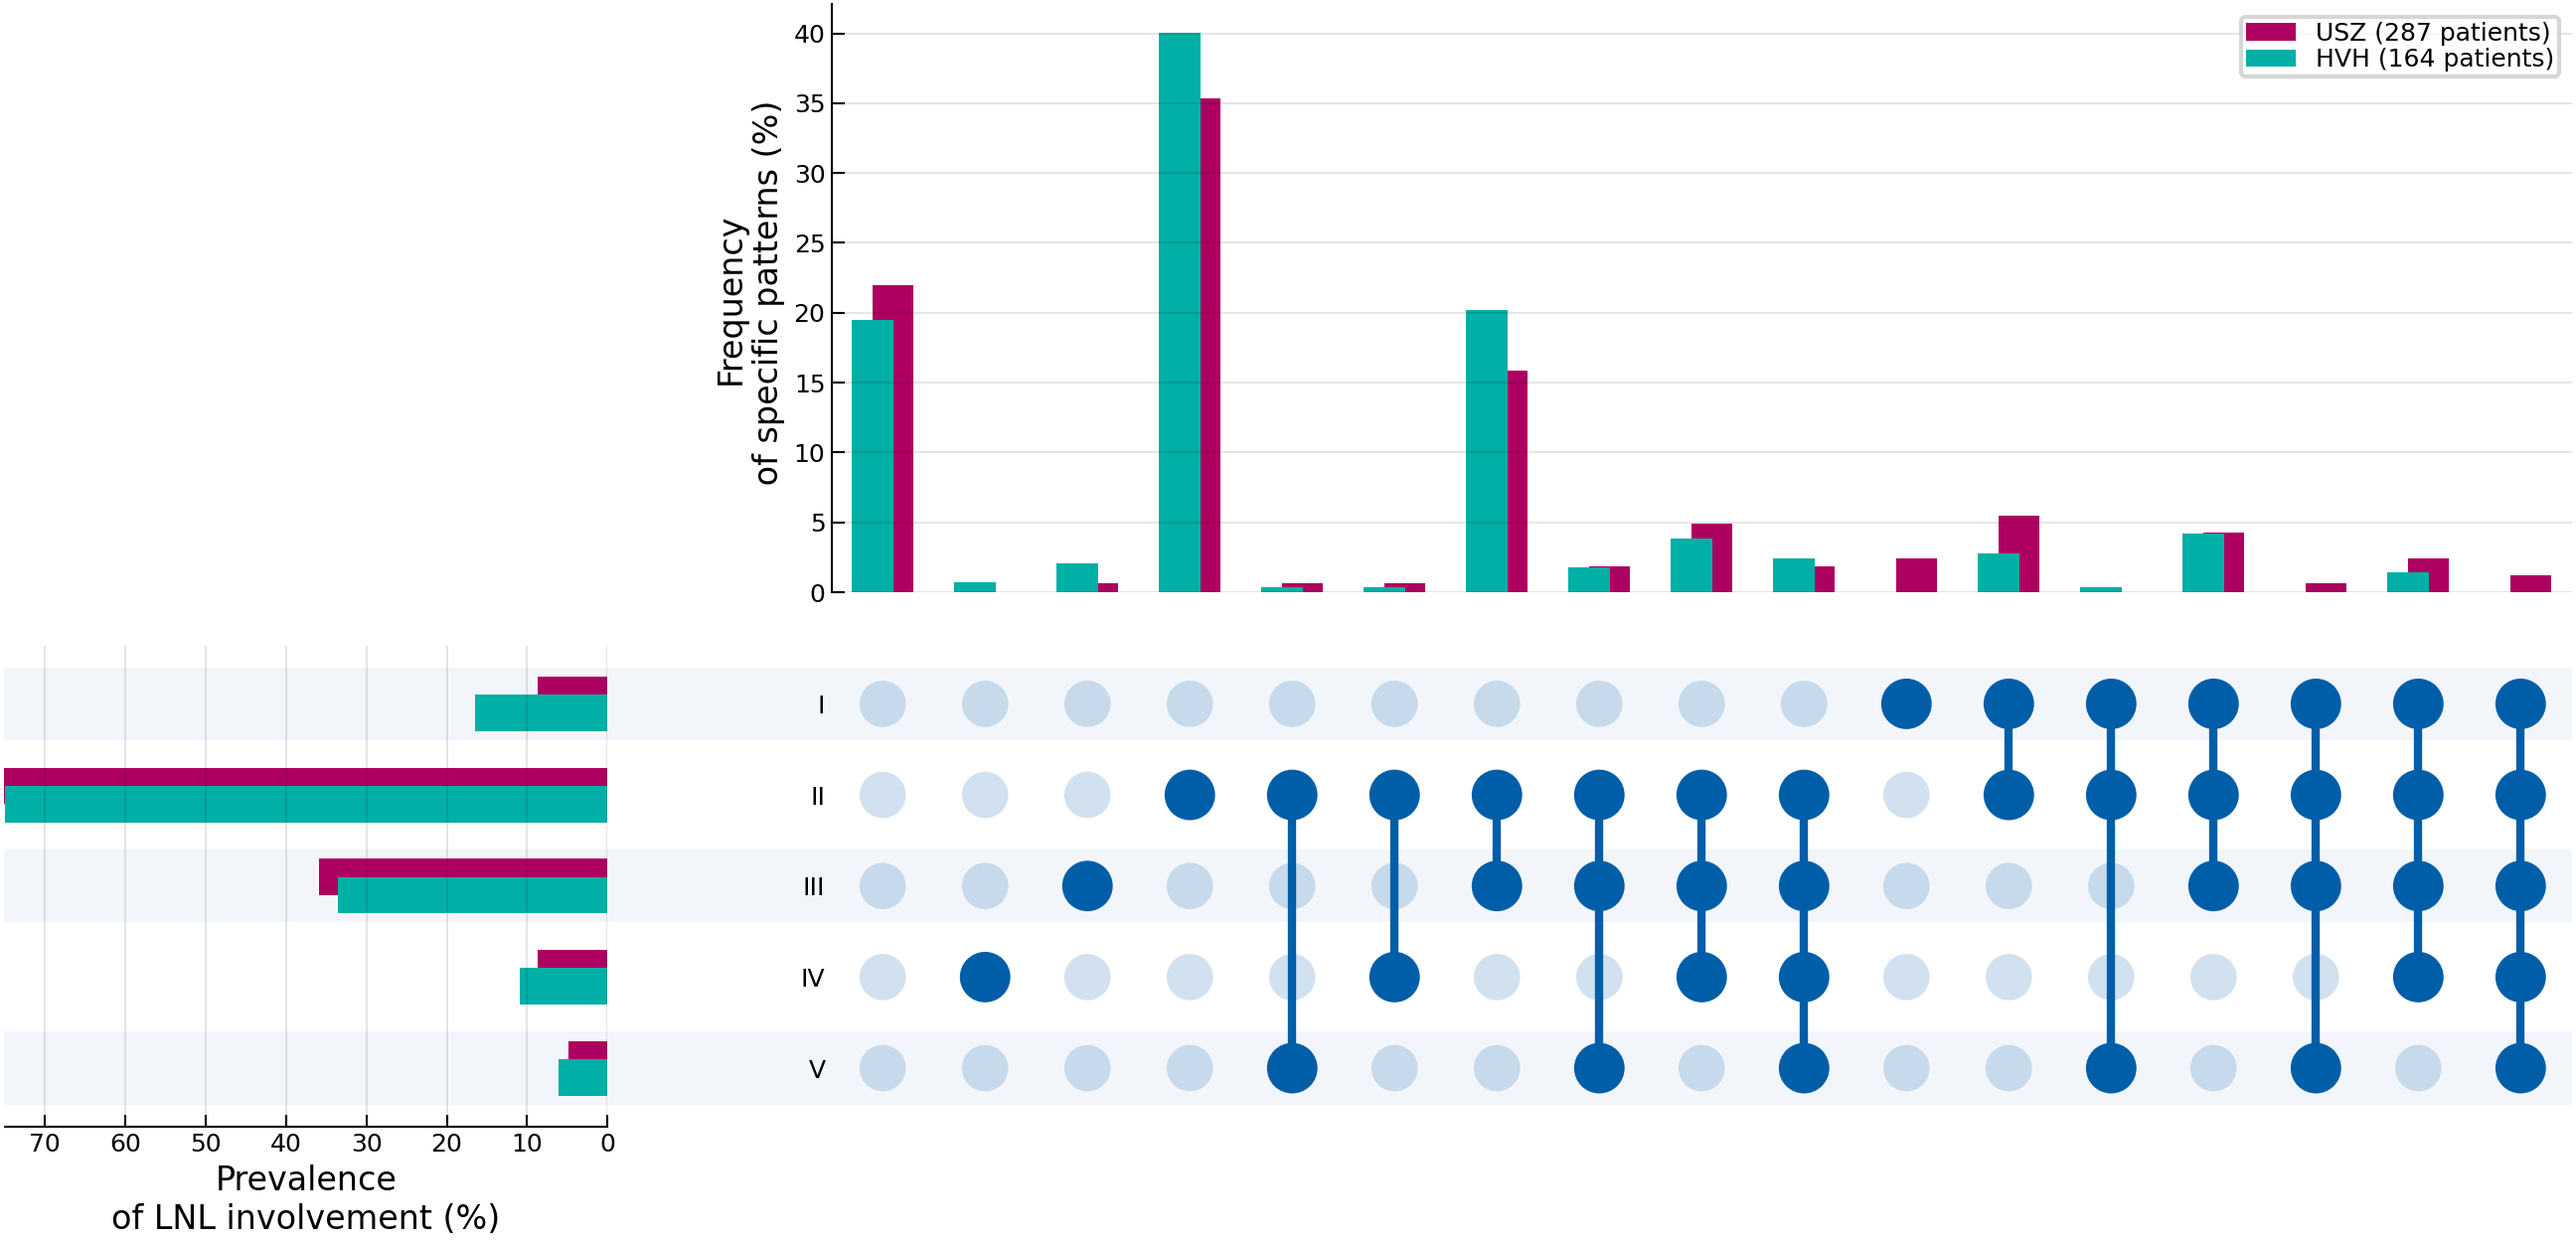
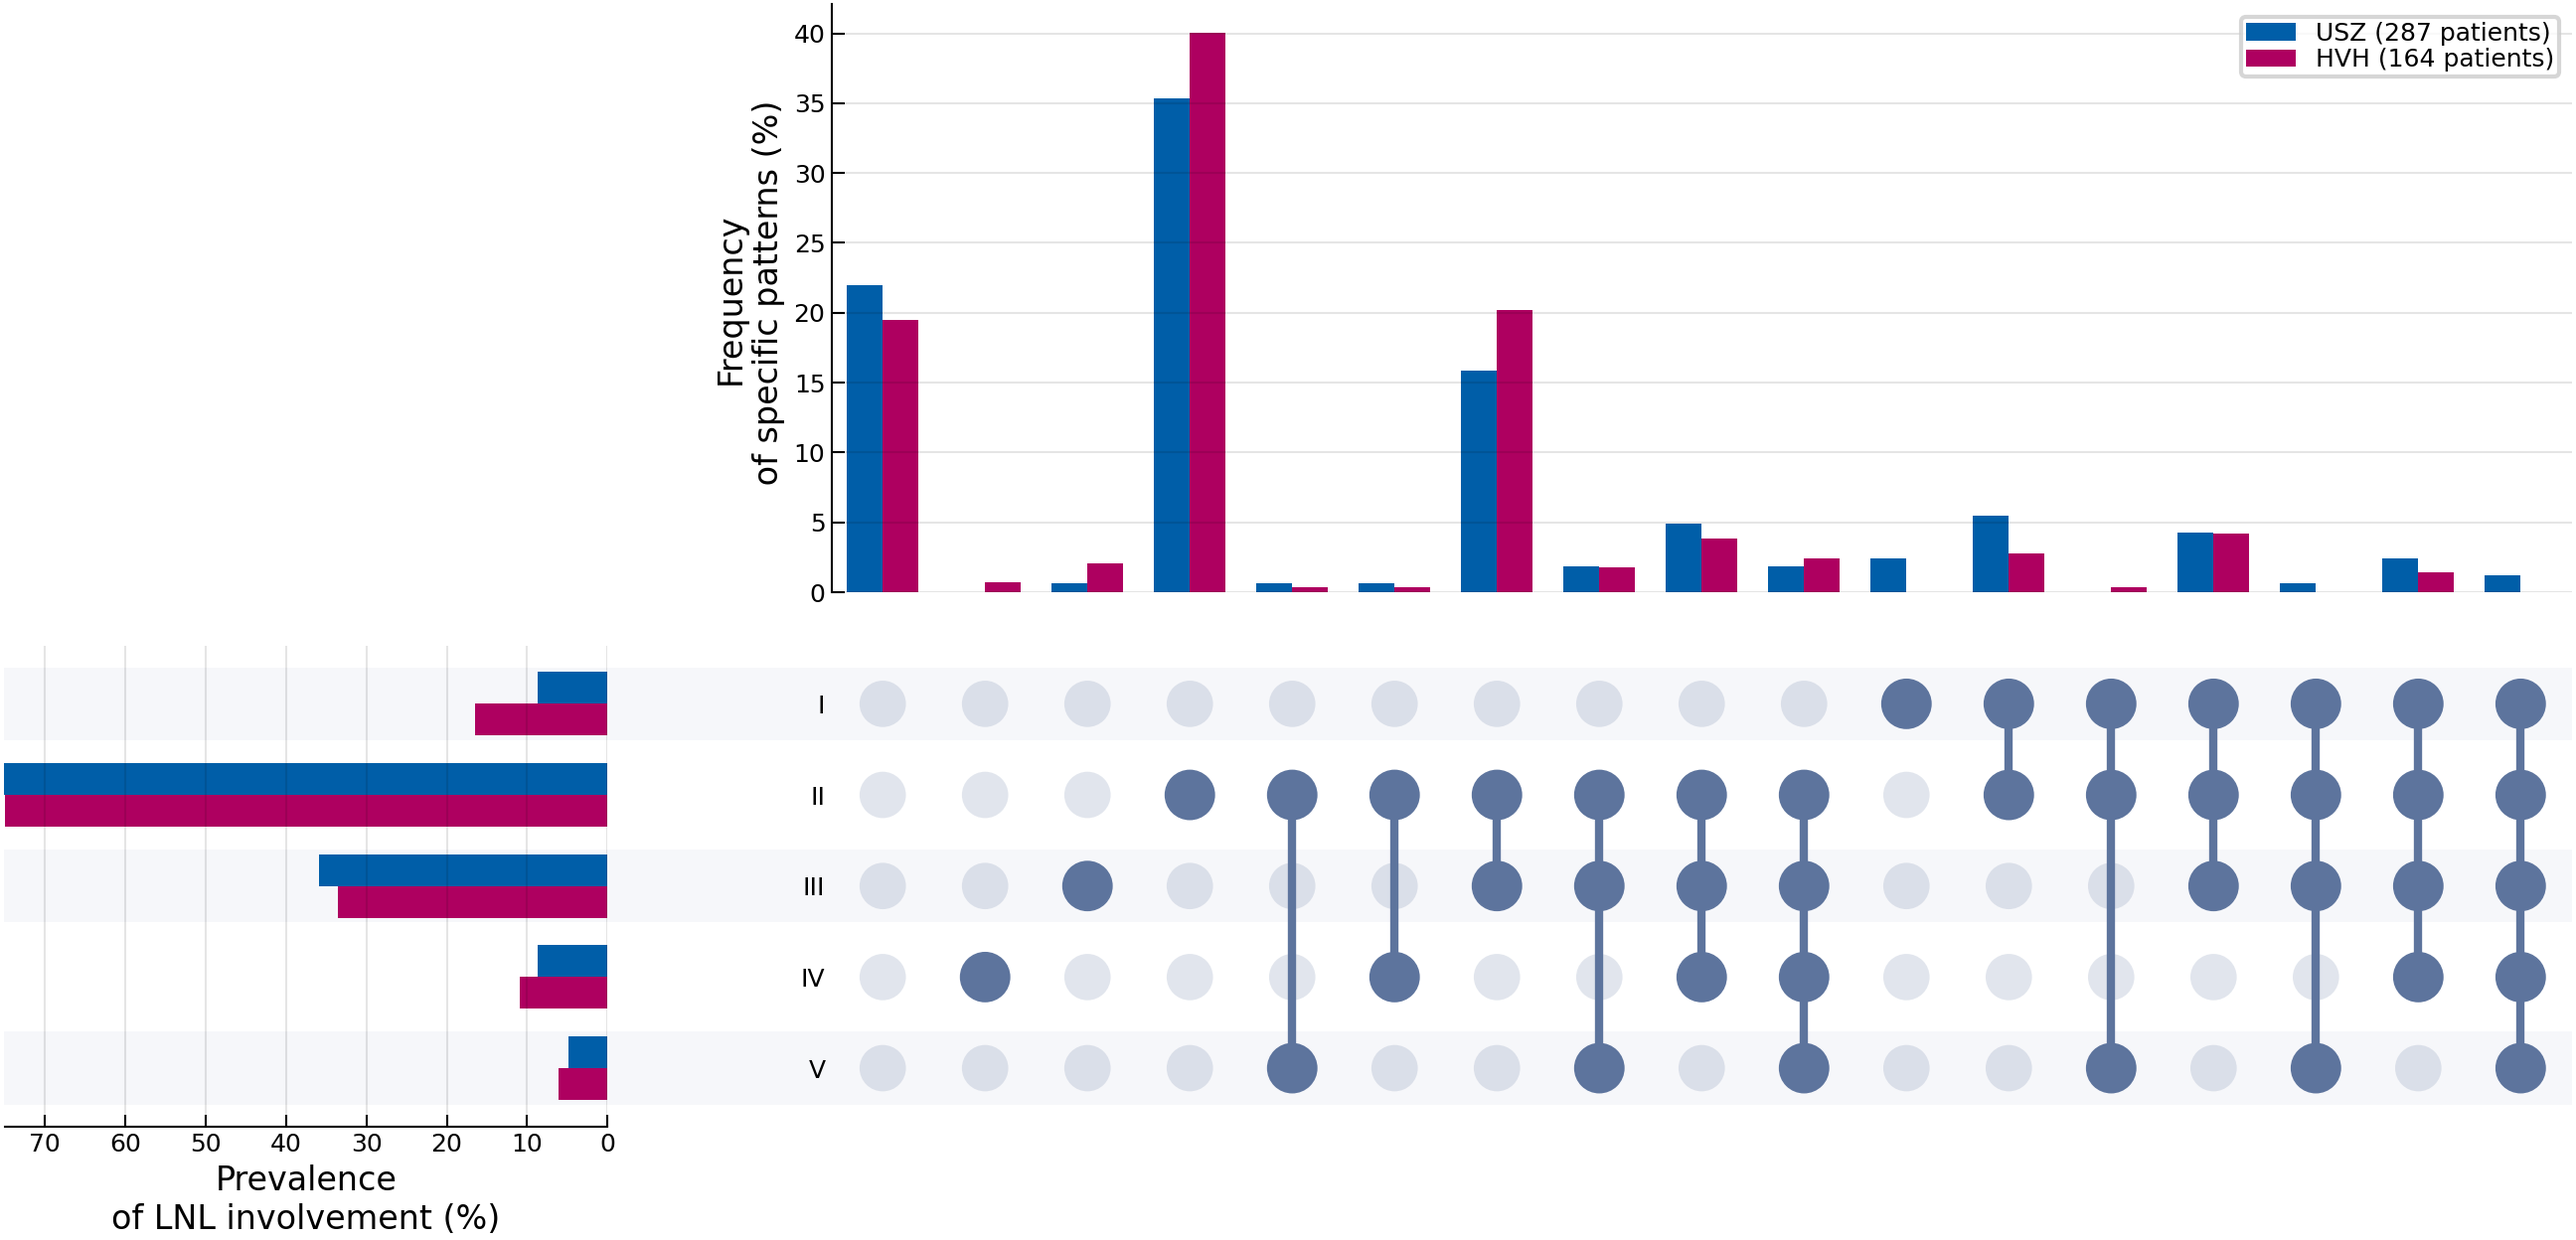
change colors & add factors diff

diff --git a/scripts/factors_diff.py b/scripts/factors_diff.py
@@ -1,0 +1,95 @@
+"""Plot the difference of clinicopathological factors in two datasets as a bar plot."""
+
+import argparse
+from pathlib import Path
+
+import lydata
+import matplotlib.pyplot as plt
+from lydata import C
+from lyscripts.plot.utils import COLORS
+from shared import MPLSTYLE
+from tueplots import figsizes, fontsizes
+from upset_diff import get_parser, kwargs_from_option
+
+OUTPUT_NAME = Path(__file__).with_suffix(".png").name
+
+
+def create_ax() -> plt.Axes:
+    """Create the axis for the plot."""
+    plt.style.use(MPLSTYLE)
+    plt.rcParams.update(figsizes.icml2022_half())
+    plt.rcParams.update(fontsizes.icml2022())
+    _, ax = plt.subplots()
+    return ax
+
+
+def main() -> None:
+    """Run main routine."""
+    args = get_parser().parse_args()
+
+    load_kwargs = {
+        "repo": "rmnldwg/lydata",
+        "ref": args.commit,
+    }
+
+    first_dataset = next(lydata.load_datasets(
+        **kwargs_from_option(args.first_dataset),
+        **load_kwargs,
+    ))
+    second_dataset = next(lydata.load_datasets(
+        **kwargs_from_option(args.second_dataset),
+        **load_kwargs,
+    ))
+
+    first_color = COLORS["blue"]
+    second_color = COLORS["red"]
+
+    ax = create_ax()
+    height = 0.5
+    sep = 3 * height
+    kwargs = {
+        "height": height,
+        "alpha": 1,
+        "zorder": 2.001,
+    }
+    yticks = []
+    yticklabels = []
+
+    for i, (label, query) in enumerate([
+        ("Midline\nextension", C("midext") == True),
+        ("Alcohol\nabuse", C("alcohol") == True),
+        ("HPV+", C("hpv") == True),
+        ("Nicotine\nabuse", C("smoke") == True),
+        ("Male", C("sex").isin(["male", "MALE"])),
+    ]):
+        first_percent = 100 * first_dataset.ly.portion(query=query).ratio
+        second_percent = 100 * second_dataset.ly.portion(query=query).ratio
+
+        y = i * sep
+
+        if i == 0:
+            first_kwargs = {"label": "USZ", "color": first_color, **kwargs}
+            second_kwargs = {"label": "HVH", "color": second_color, **kwargs}
+        else:
+            first_kwargs = {"color": first_color, **kwargs}
+            second_kwargs = {"color": second_color, **kwargs}
+
+        ax.barh(y=y + height/2, width=first_percent, **first_kwargs)
+        ax.barh(y=y - height/2, width=second_percent, **second_kwargs)
+
+        yticks.append(y)
+        yticklabels.append(label)
+
+    ax.set_yticks(yticks)
+    ax.set_yticklabels(yticklabels)
+    ax.set_xlim(0, 100)
+    ax.set_xlabel("Percentage of patients (%)")
+    ax.legend(loc="lower right")
+
+    output_dir = Path(args.second_dataset) / "figures"
+    output_dir.mkdir(exist_ok=True, parents=True)
+    plt.savefig(output_dir / OUTPUT_NAME, dpi=300, bbox_inches="tight")
+
+
+if __name__ == "__main__":
+    main()

diff --git a/scripts/upset_diff.py b/scripts/upset_diff.py
@@ -8,10 +8,9 @@ import matplotlib.pyplot as plt
 import numpy as np
 import pandas as pd
 import upsetplot
+from lyscripts.plot.utils import COLORS
 from shared import LNLS, MPLSTYLE, remove_artists
 from tueplots import figsizes, fontsizes
-
-from lyscripts.plot.utils import COLORS
 
 OUTPUT_NAME = Path(__file__).with_suffix(".png").name
 
@@ -23,6 +22,7 @@ def get_parser() -> argparse.ArgumentParser:
         "--commit",
         type=str,
         help="The commit hash at which to compare the datasets.",
+        default="5b85184ecece020f509ab0c9f05aa5c81257ffd3",
     )
     parser.add_argument(
         "--first-dataset",
@@ -108,7 +108,7 @@ def main() -> None:
     ))
     plt.rcParams.update(fontsizes.icml2022())
 
-    width = 0.4
+    width = 0.35
 
     second_upset = upsetplot.UpSet(
         second_summable_inds,
@@ -117,41 +117,44 @@ def main() -> None:
         sort_by="input",
         min_subset_size=0,
         totals_plot_elements=6,
-        facecolor=COLORS["blue"],
+        facecolor="#5d749d",
     )
     ax_dict = second_upset.plot()
 
     remove_artists(ax_dict["intersections"])
     remove_artists(ax_dict["totals"])
 
+    first_color = COLORS["blue"]
+    second_color = COLORS["red"]
+
     ax_dict["intersections"].bar(
-        x=np.arange(len(second_summable_inds)) + 0.1,
+        x=np.arange(len(second_summable_inds)) - width/2,
         height=second_summable_inds,
         width=width,
-        color=COLORS["red"],
+        color=first_color,
         label=f"{first_institution} ({first_total:d} patients)",
     )
     ax_dict["intersections"].bar(
-        x=np.arange(len(first_summable_inds)) - 0.1,
+        x=np.arange(len(first_summable_inds)) + width/2,
         height=first_summable_inds,
         width=width,
-        color=COLORS["green"],
+        color=second_color,
         label=f"{second_institution} ({second_total:d} patients)",
     )
     ax_dict["intersections"].set_ylabel("Frequency\n of specific patterns (%)")
     ax_dict["intersections"].legend(loc="upper right")
 
     ax_dict["totals"].barh(
-        y=np.arange(len(first_prevs)) + 0.1,
+        y=np.arange(len(first_prevs)) + width/2,
         width=first_prevs[::-1],
         height=width,
-        color=COLORS["red"],
+        color=first_color,
     )
     ax_dict["totals"].barh(
-        y=np.arange(len(second_prevs)) - 0.1,
+        y=np.arange(len(second_prevs)) - width/2,
         width=second_prevs[::-1],
         height=width,
-        color=COLORS["green"],
+        color=second_color,
     )
     ax_dict["totals"].set_xlabel("Prevalence\nof LNL involvement (%)")
 
